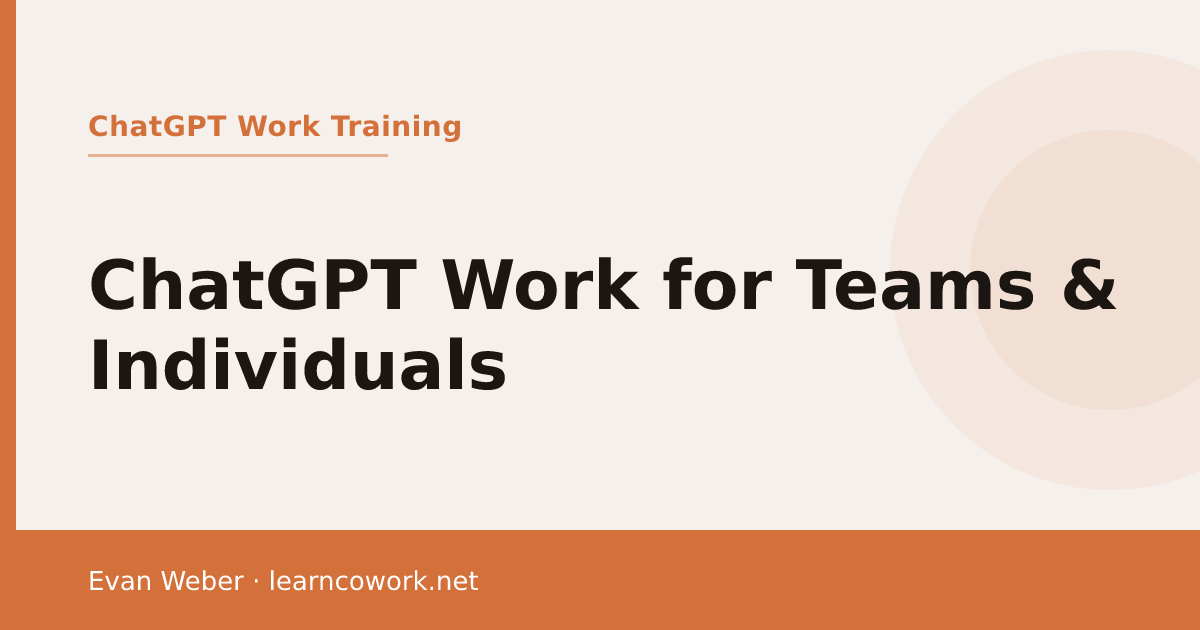
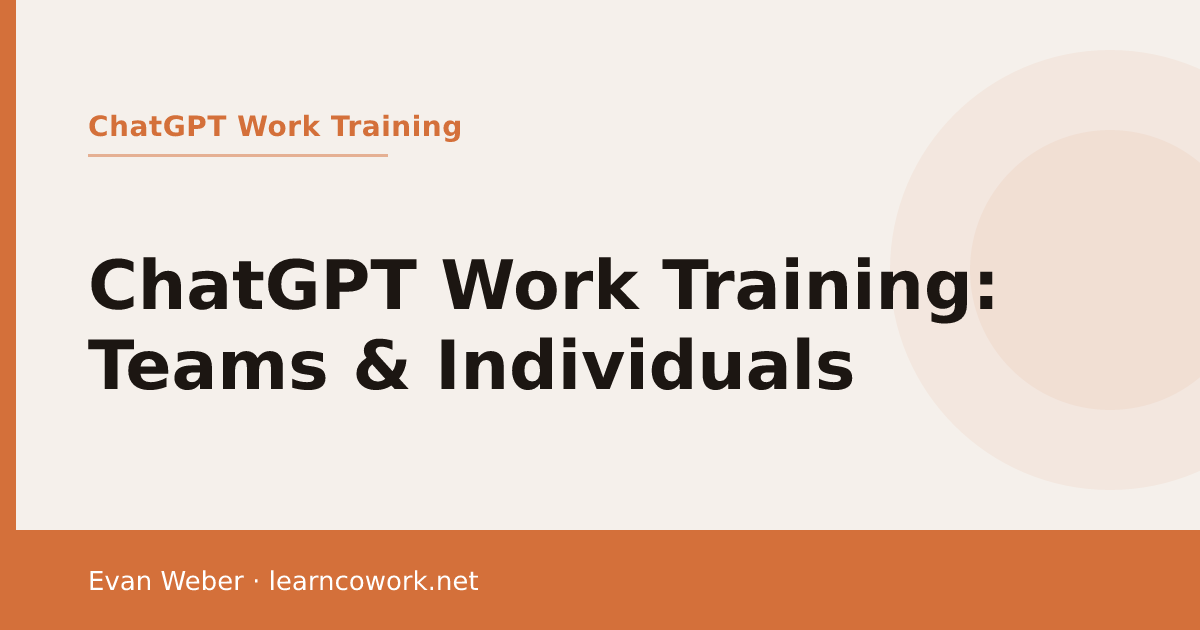
Update Open Graph image and generation script
Replit-Commit-Author: Agent

Changed region(s): [[0.0617, 0.5127, 0.7092, 0.6333], [0.555, 0.3921, 0.925, 0.5127]]

diff --git a/scripts/src/generate-og-images.ts b/scripts/src/generate-og-images.ts
@@ -105,7 +105,7 @@ const pages: OGPage[] = [
   {
     filename: "og-chatgpt-work-training.png",
     category: "ChatGPT Work Training",
-    title: "ChatGPT Work for Teams & Individuals",
+    title: "ChatGPT Work Training: Teams & Individuals",
   },
   // Industry pages
   {
